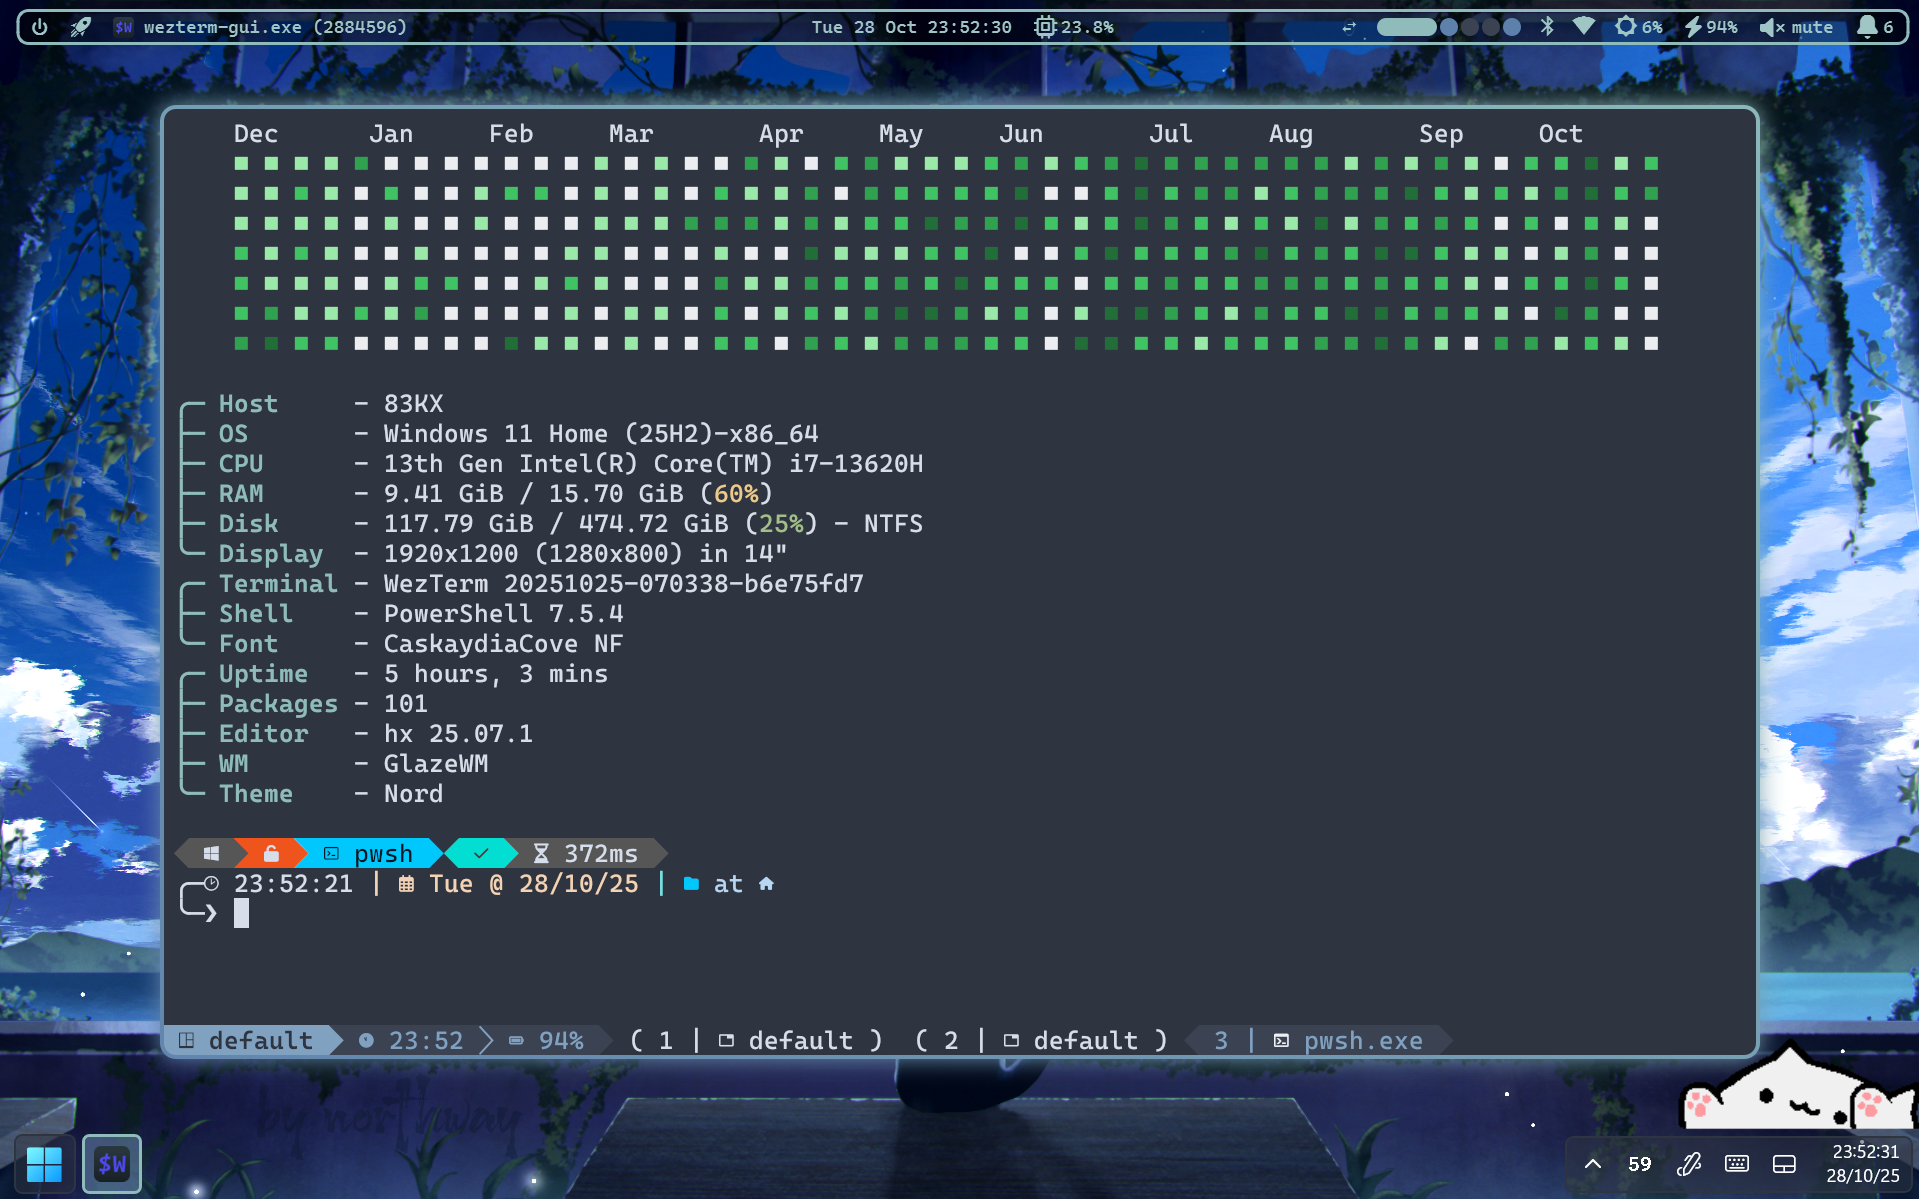
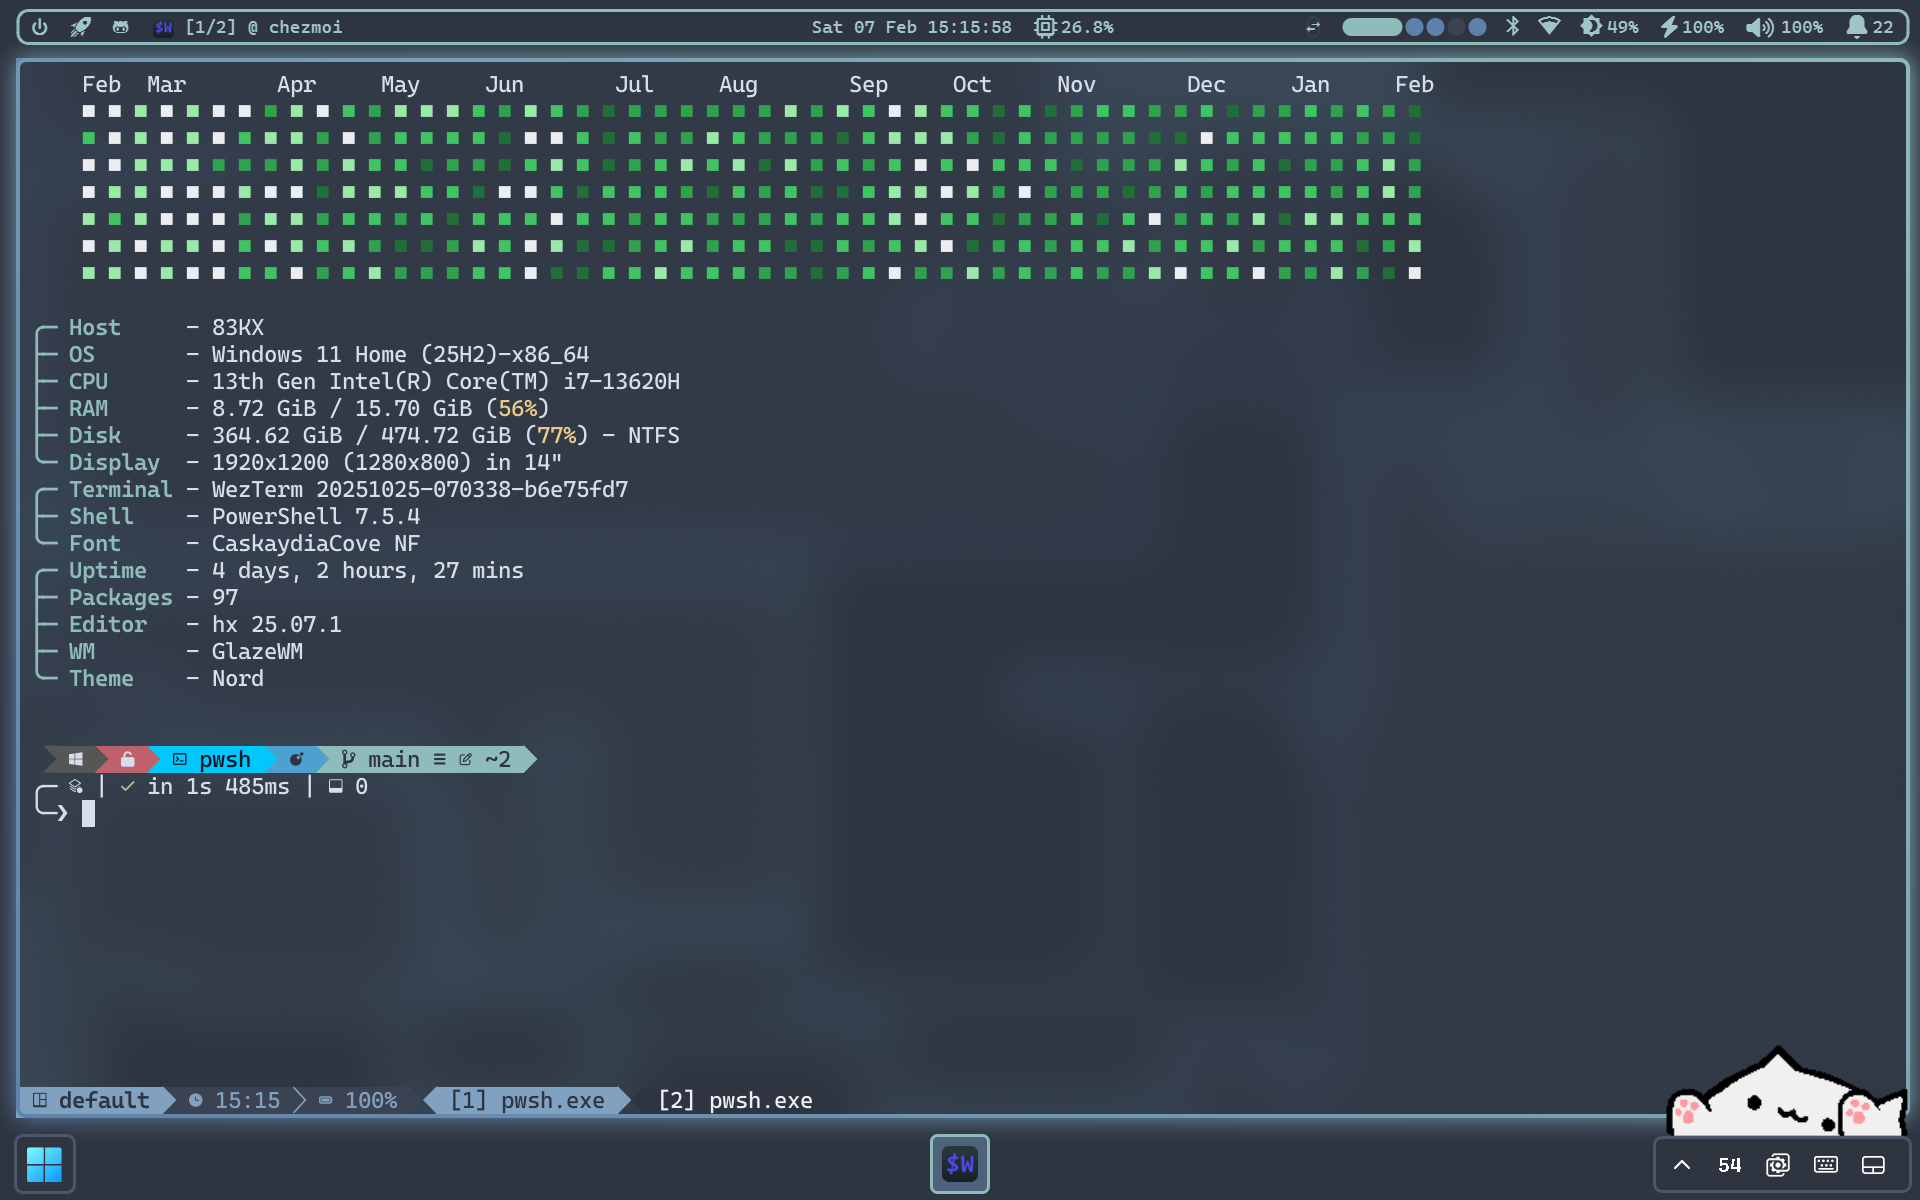
February 7 dump

diff --git a/dot_config/yasb/styles.css b/dot_config/yasb/styles.css
@@ -206,7 +206,8 @@ QPushButton {
 
 .launchpad .app-dialog .icon-field,
 .launchpad .app-dialog .path-field,
-.launchpad .app-dialog .title-field {
+.launchpad .app-dialog .title-field,
+.launchpad .app-dialog .group-field {
   background-color: var(--nord-black-2);
   border-radius: 4px;
   border: 1px solid var(--nord-cyan-base);
@@ -216,12 +217,6 @@ QPushButton {
   margin: 10px 0px 5px 0;
   min-height: 30px;
   padding: 0 6px;
-}
-
-.launchpad .app-dialog .icon-field:focus,
-.launchpad .app-dialog .path-field:focus,
-.launchpad .app-dialog .title-field:focus {
-  border-bottom-color: var(--nord-cyan-base);
 }
 
 .launchpad .app-dialog .message {
@@ -327,6 +322,7 @@ QPushButton {
   max-width: 0;
   min-height: 0;
 }
+
 .media-area {
   padding: 2px 0 0 12px;
 }

diff --git a/README.md b/README.md
@@ -6,8 +6,8 @@ My Windows 11 config files, Nord + Translucency
 
 | ![fetch](img/fetch.png) <br> gitfetch + fastfetch |                  ![helix](img/helixonly.png) <br> helix                   |
 | :-----------------------------------------------: | :-----------------------------------------------------------------------: |
-|   ![zen browser](img/zen.png) <br> zen browser    | ![youtube music](img/youtubemusic.png) <br> youtube music (a bit scuffed) |
-| ![rovr](img/rovr.png) <br> rovr, my file explorer |                           ![prompt](kushal.png)                           |
+|   ![zen browser](img/zen.png) <br> zen browser    | ![rovr](img/rovr.png) <br> rovr, my file explorer                         |
+|                                                   |                           ![prompt](kushal.png)                           |
 
 ## Apps
 
@@ -35,11 +35,9 @@ My Windows 11 config files, Nord + Translucency
 
 #### Wallpaper
 
-Generally I switch between 3 options (screenshots from steam!)
+[Just Mazes](https://steamcommunity.com/sharedfiles/filedetails/?id=1550989740) with the [Nord Theme maze generator](https://steamcommunity.com/sharedfiles/filedetails/?id=3172644398) preset.
 
-|   ![Lost Cat.](https://images.steamusercontent.com/ugc/2459620193690498958/1CF63A48848CDB76FFEFC3A4B2B54D37FB142BA3/?imw=637&imh=358&ima=fit&impolicy=Letterbox&imcolor=%23000000&letterbox=true) <br> [link](https://steamcommunity.com/sharedfiles/filedetails/?id=3352465485)   | ![Lost Cat 3](https://images.steamusercontent.com/ugc/2404452368859591676/D8CBBE411A86066BA5B3D9554BB1F8EEDB7DE61F/?imw=637&imh=358&ima=fit&impolicy=Letterbox&imcolor=%23000000&letterbox=true) <br> [link](https://steamcommunity.com/sharedfiles/filedetails/?id=3360569178) |
-| :--------------------------------------------------------------------------------------------------------------------------------------------------------------------------------------------------------------------------------------------------------------------------------: | :-----------------------------------------------------------------------------------------------------------------------------------------------------------------------------------------------------------------------------------------------------------------------------: |
-| ![Sunset Cat [4k]](https://images.steamusercontent.com/ugc/43443618358467438/204AE1F0F54142B3670712E3546E6E2EE76D07BE/?imw=637&imh=358&ima=fit&impolicy=Letterbox&imcolor=%23000000&letterbox=true) <br> [link](https://steamcommunity.com/sharedfiles/filedetails/?id=3373818743) |                                                                                                                                                                                                                                                                                 |
+![image](https://images.steamusercontent.com/ugc/2433703573706062403/5D9FF116B2571DD62197D76A9CC26BFD6F9AF0A2/?imw=637&imh=358&ima=fit&impolicy=Letterbox&imcolor=%23000000&letterbox=true)
 
 #### No config
 
@@ -141,20 +139,17 @@ wezterm-mcp 1.0.0
 ━━━━━━━━━━━━━━━━━━━━━━━━━━━━━━━━━━━━━━━━━━━━━━━━━━━━━━━━━━━━━━━━━━━━━━━━━━━━━━━━━
  Language              Files        Lines         Code     Comments       Blanks
 ━━━━━━━━━━━━━━━━━━━━━━━━━━━━━━━━━━━━━━━━━━━━━━━━━━━━━━━━━━━━━━━━━━━━━━━━━━━━━━━━━
- JSON                     55         4133         4132            0            1
+ JSON                     55         4140         4139            0            1
  CSS                      11         3966         3194          282          490
  TOML                     11         1726         1439          165          122
- YAML                      5         1207         1092           53           62
+ YAML                      5         1142         1027           53           62
  PowerShell                3          987          840           53           94
  Scheme                    6          955          840           21           94
  INI                       1          687          170          414          103
  Lua                       1          236          215            9           12
-─────────────────────────────────────────────────────────────────────────────────
- Markdown                 10          207            0          158           49
- |- Shell                  1           18           18            0            0
- (Total)                              225           18          158           49
+ Markdown                 10          222            0          174           48
 ━━━━━━━━━━━━━━━━━━━━━━━━━━━━━━━━━━━━━━━━━━━━━━━━━━━━━━━━━━━━━━━━━━━━━━━━━━━━━━━━━
- Total                   103        14122        11940         1155         1027
+ Total                   103        14061        11864         1171         1026
 ━━━━━━━━━━━━━━━━━━━━━━━━━━━━━━━━━━━━━━━━━━━━━━━━━━━━━━━━━━━━━━━━━━━━━━━━━━━━━━━━━
 ```
 
